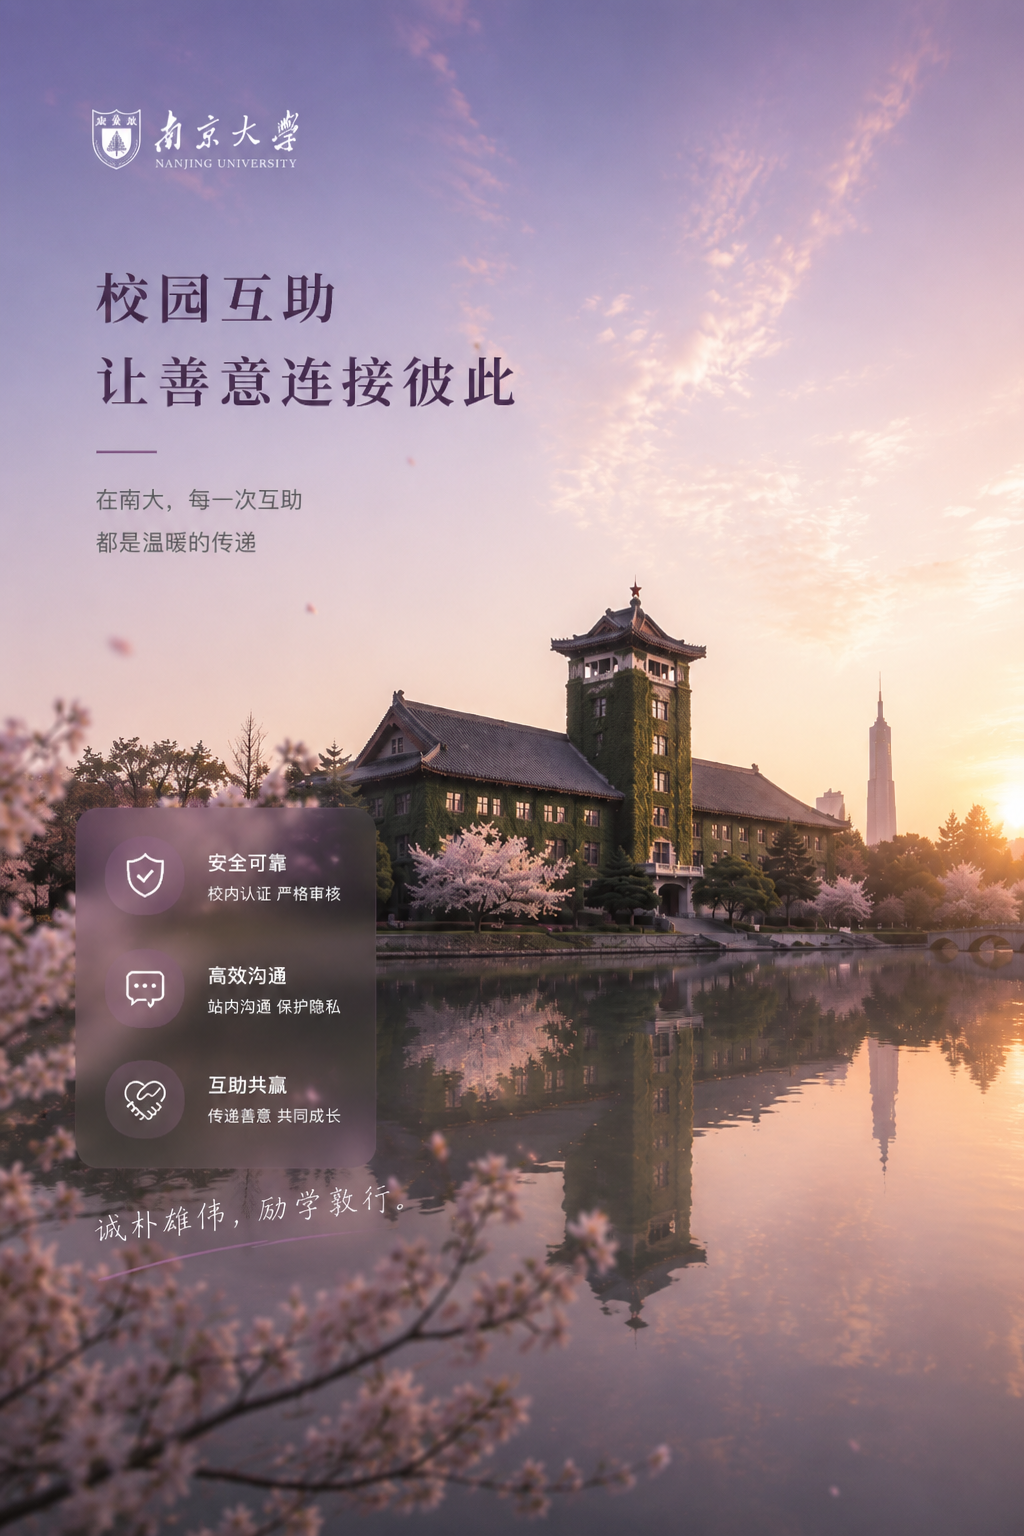
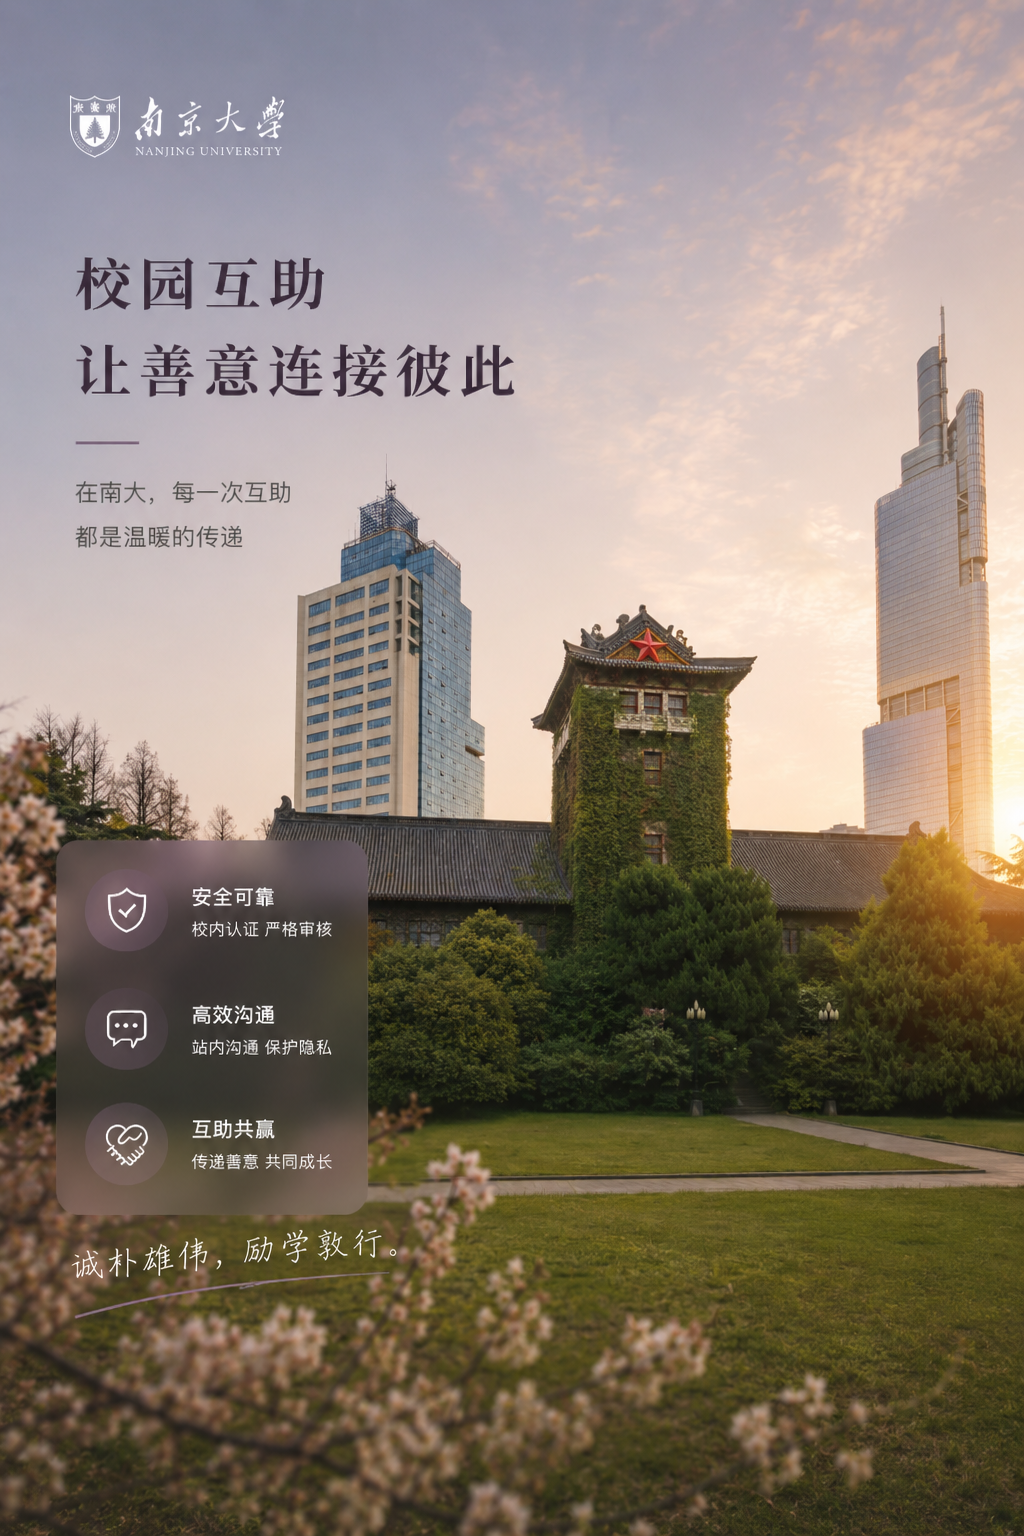
[FE][FE01]调整登录页的相关内容

diff --git a/frontend/src/views/AuthView.vue b/frontend/src/views/AuthView.vue
@@ -5,7 +5,6 @@ import {
   BadgeCheck,
   Eye,
   EyeOff,
-  IdCard,
   LoaderCircle,
   LockKeyhole,
   Mail,
@@ -73,7 +72,7 @@ async function handleRegister() {
   feedback.value = ''
   try {
     await register(registerForm)
-    setFeedback('注册成功，请使用新账号登录。')
+    setFeedback('注册成功，请使用用户名和密码登录。')
     mode.value = 'login'
   } catch (error) {
     setFeedback(error.message, 'danger')
@@ -162,7 +161,7 @@ async function handleRegister() {
             @submit.prevent="handleLogin"
           >
             <div class="auth-field">
-              <label for="login-username">手机号 / 邮箱 / 学号</label>
+              <label for="login-username">用户名</label>
               <div class="input-shell">
                 <UserRound
                   :size="20"
@@ -172,7 +171,7 @@ async function handleRegister() {
                   id="login-username"
                   v-model.trim="loginForm.username"
                   autocomplete="username"
-                  placeholder="请输入手机号 / 邮箱 / 学号"
+                  placeholder="请输入用户名"
                   required
                   :disabled="state.loading"
                 >
@@ -261,9 +260,9 @@ async function handleRegister() {
             @submit.prevent="handleRegister"
           >
             <div class="auth-field">
-              <label for="register-username">学号 / 用户名</label>
+              <label for="register-username">用户名</label>
               <div class="input-shell">
-                <IdCard
+                <UserRound
                   :size="20"
                   aria-hidden="true"
                 />
@@ -271,7 +270,7 @@ async function handleRegister() {
                   id="register-username"
                   v-model.trim="registerForm.username"
                   autocomplete="username"
-                  placeholder="请输入学号或用户名"
+                  placeholder="请设置用户名"
                   required
                   :disabled="state.loading"
                 >
@@ -373,6 +372,7 @@ async function handleRegister() {
 <style scoped>
 .auth-screen {
   height: 100vh;
+  height: 100dvh;
   display: grid;
   grid-template-columns: minmax(560px, 42vw) minmax(480px, 1fr);
   overflow: hidden;
@@ -384,18 +384,23 @@ async function handleRegister() {
 .visual-panel {
   position: relative;
   isolation: isolate;
-  min-height: 100vh;
+  height: 100vh;
+  height: 100dvh;
+  min-height: 0;
   overflow: hidden;
 }
 
 .campus-photo {
   position: absolute;
   inset: 0;
+  width: 100%;
+  height: 100%;
   background: url("/auth-left.png") center / cover no-repeat;
 }
 
 .auth-main {
   min-height: 100vh;
+  min-height: 100dvh;
   display: grid;
   place-items: center;
   padding: 28px;
@@ -681,10 +686,13 @@ async function handleRegister() {
     grid-template-columns: 1fr;
     height: auto;
     min-height: 100vh;
+    min-height: 100dvh;
     overflow: auto;
   }
 
   .visual-panel {
+    height: 46vh;
+    height: 46dvh;
     min-height: 46vh;
   }
 
@@ -695,6 +703,8 @@ async function handleRegister() {
 
 @media (max-width: 640px) {
   .visual-panel {
+    height: 38vh;
+    height: 38dvh;
     min-height: 38vh;
   }
 
